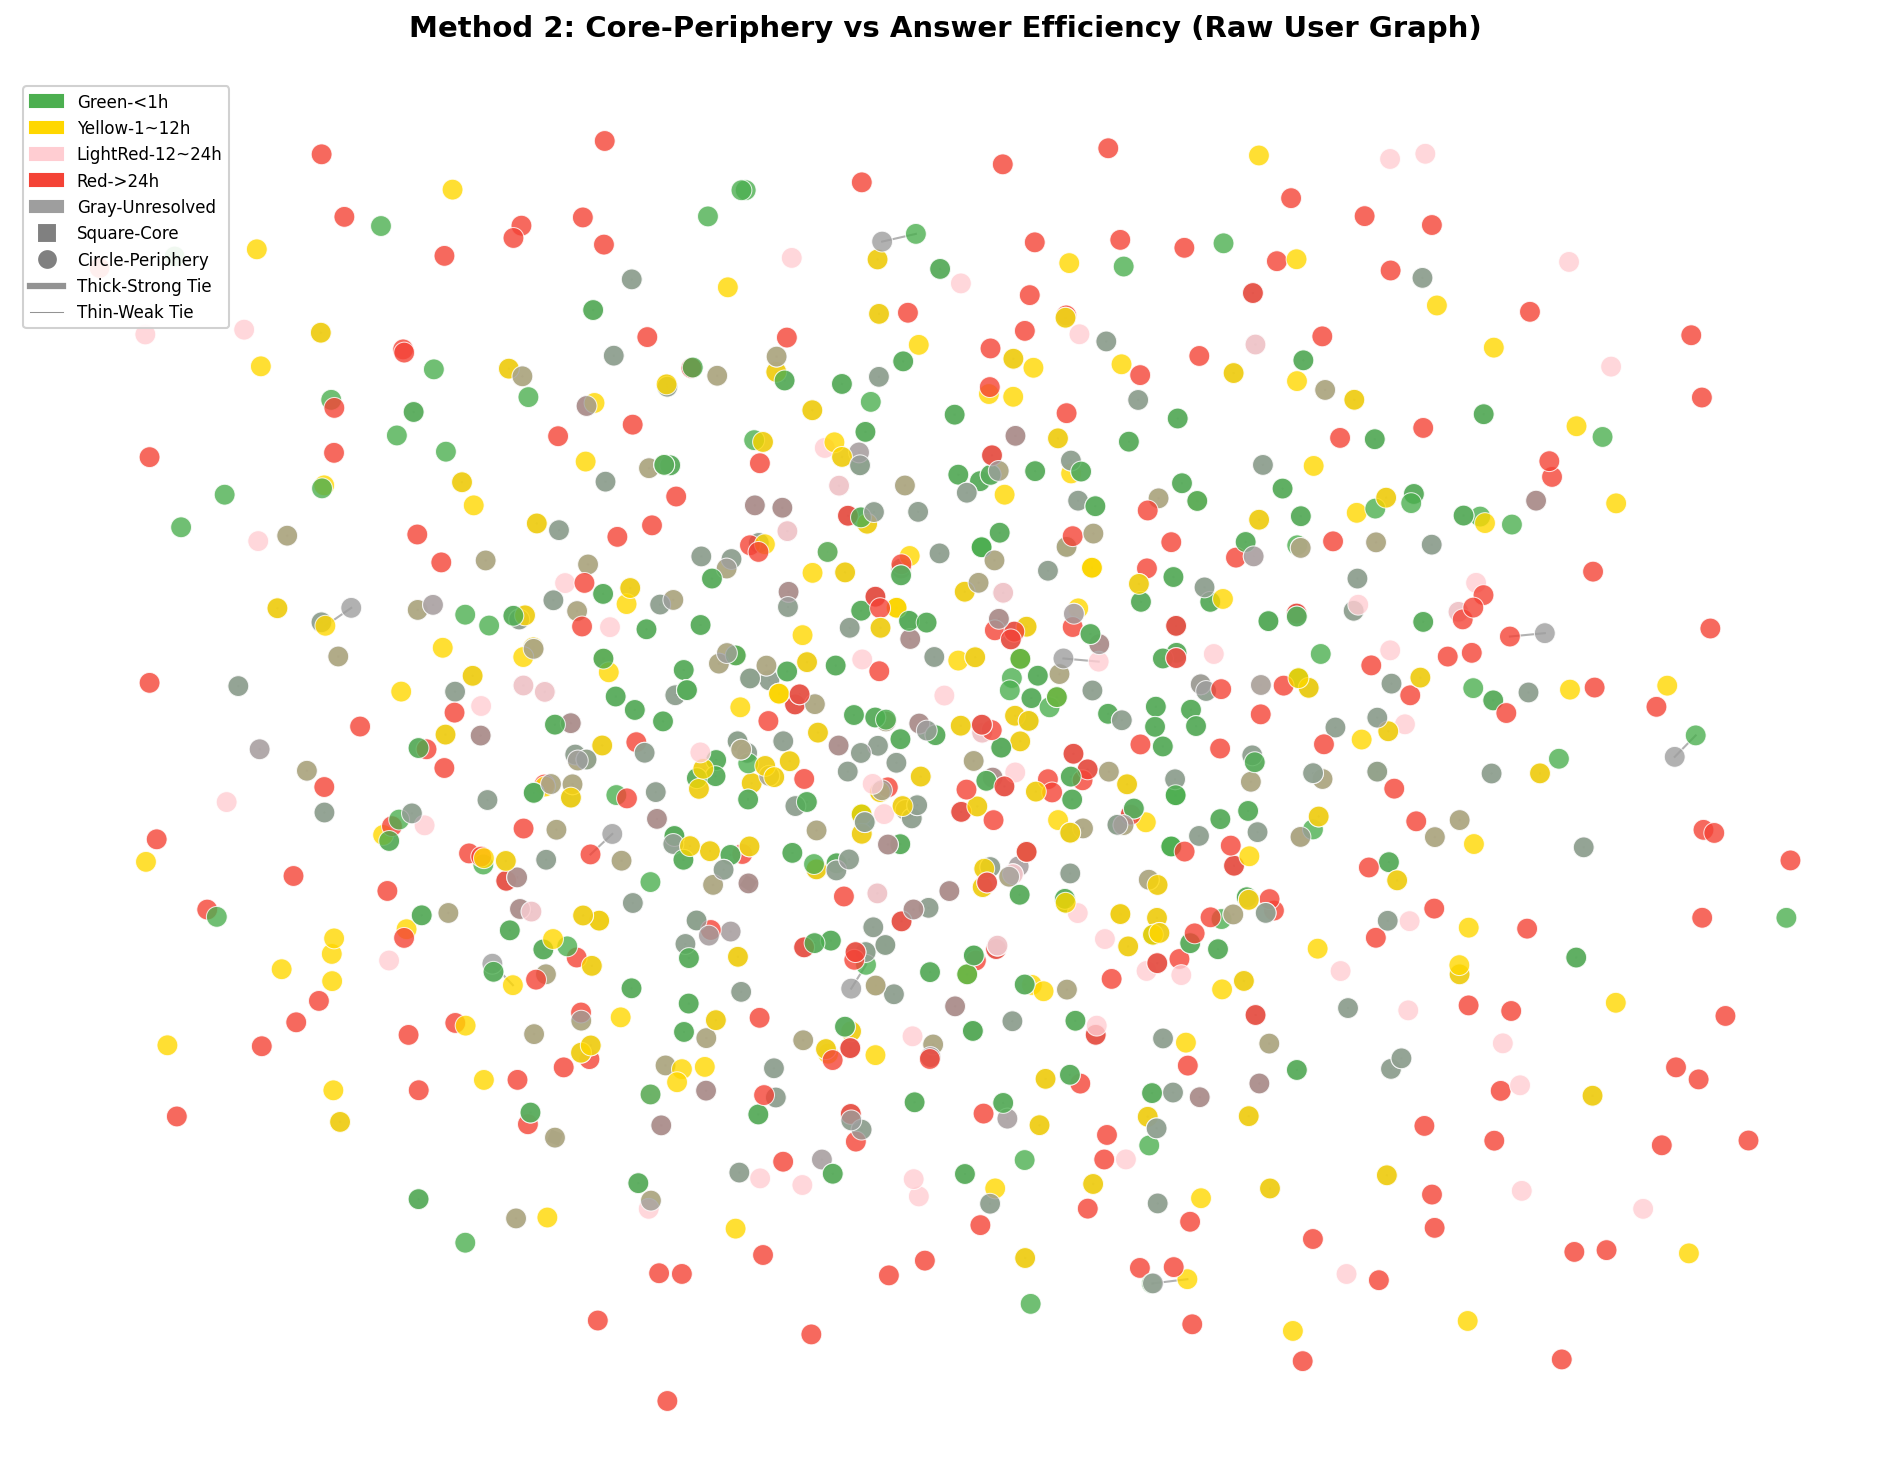
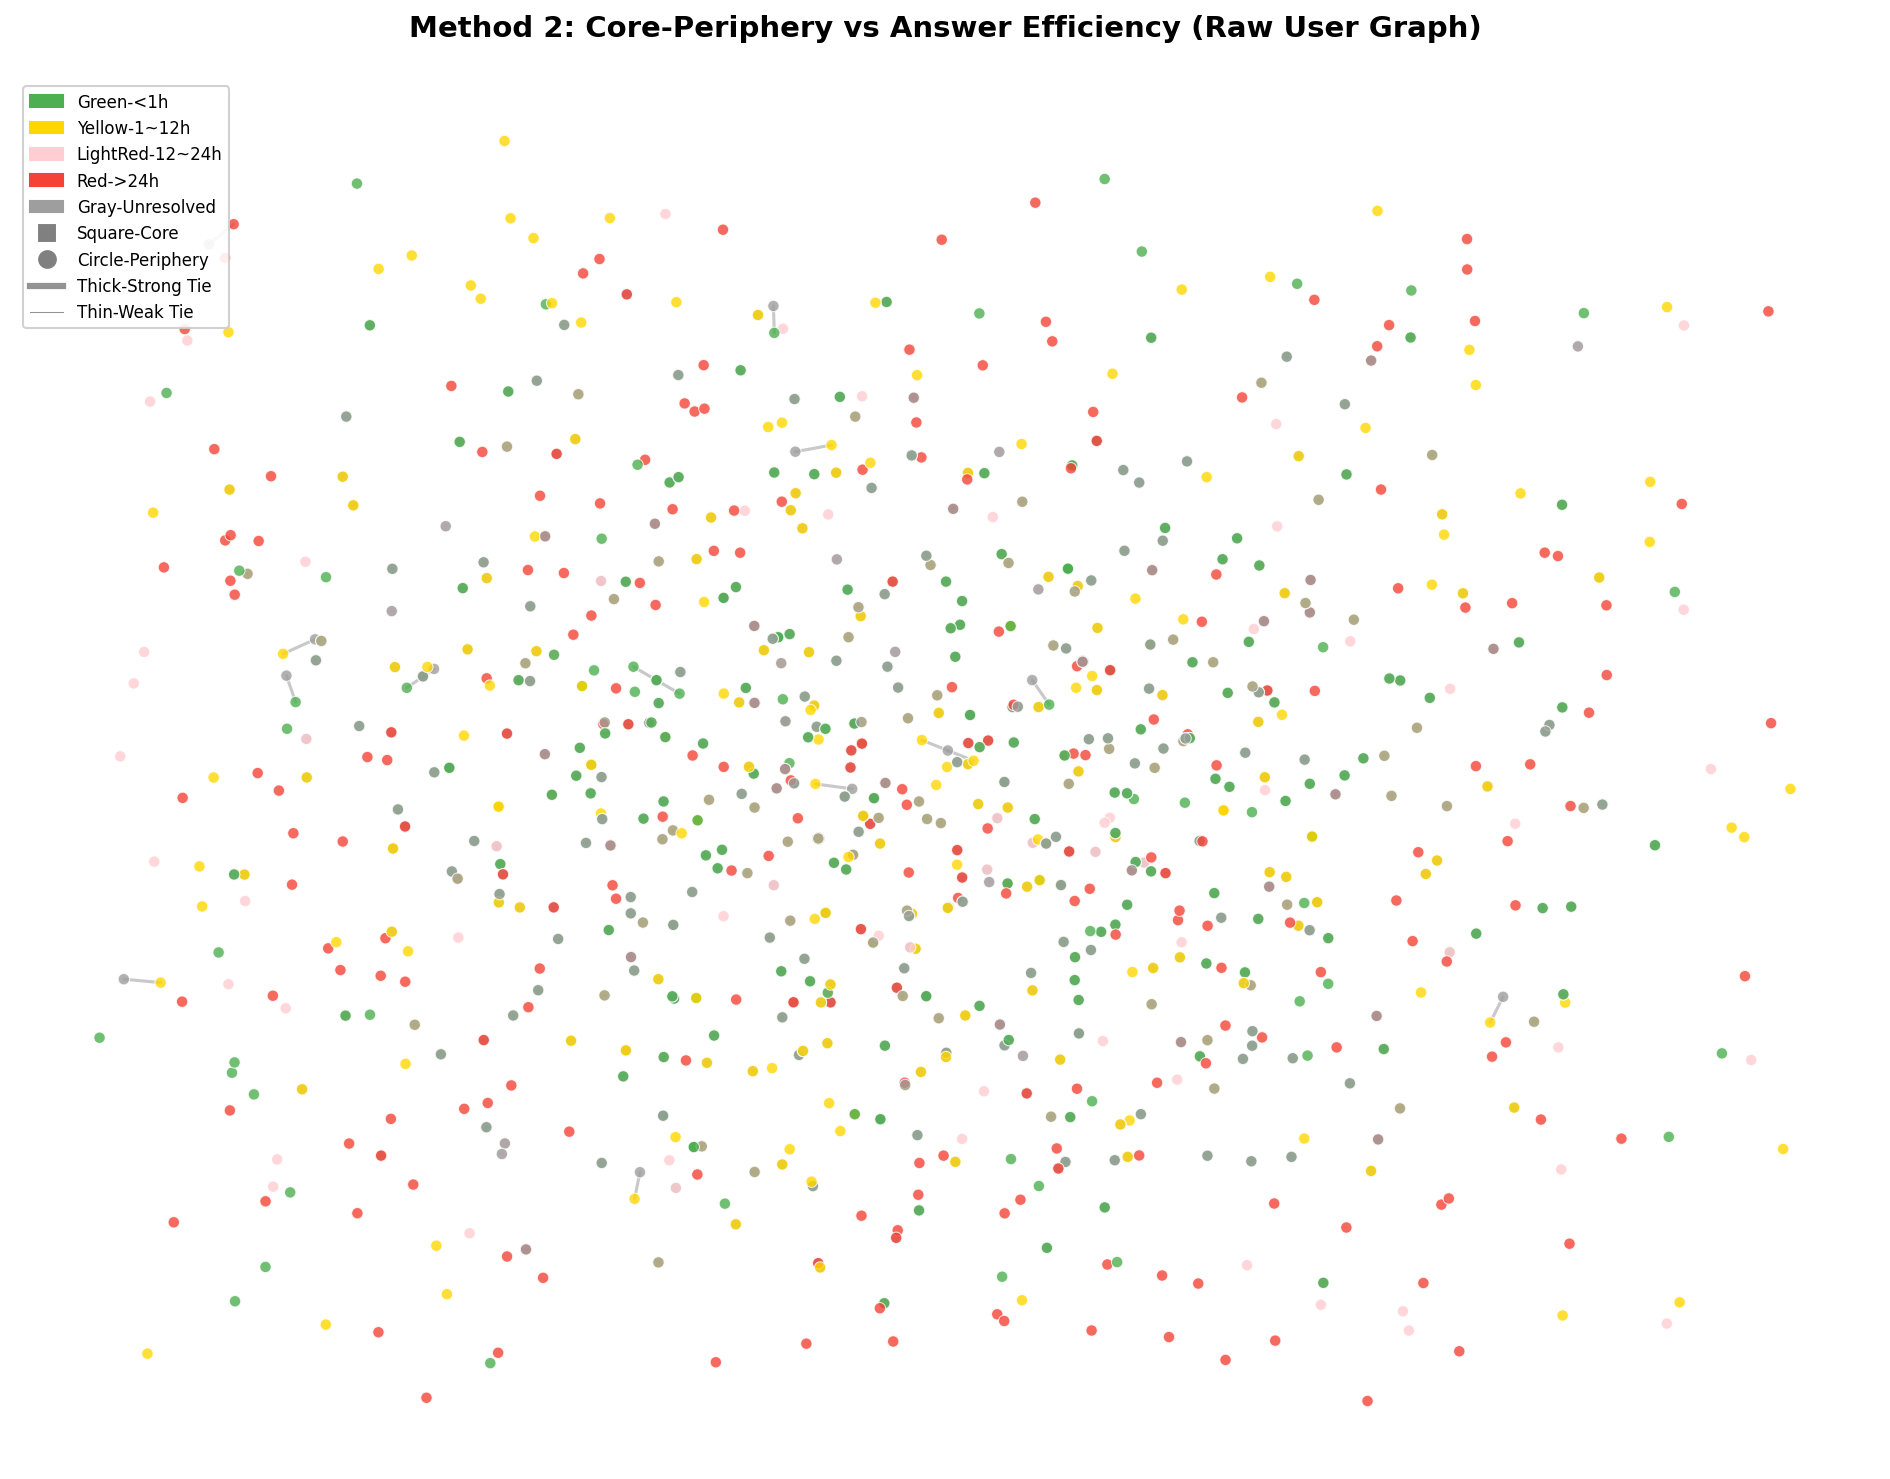
fix: update analysis limits and enhance edge weight normalization in SNA visualization

diff --git a/src/sna_runner.py b/src/sna_runner.py
@@ -2084,7 +2084,21 @@ class SNARunner:
         ax.axis("off")
 
         # Draw region-to-region connections using the graph edges
-        for edge in graph.es:
+        edge_weights = [edge["weight"] if "weight" in edge.attributes() else 1 for edge in graph.es]
+        if edge_weights:
+            min_w = min(edge_weights)
+            max_w = max(edge_weights)
+            if max_w > min_w:
+                normalized_weights = [
+                    (w - min_w) / (max_w - min_w)
+                    for w in edge_weights
+                ]
+            else:
+                normalized_weights = [0.5] * len(edge_weights)
+        else:
+            normalized_weights = [0.5] * len(graph.es)
+
+        for i, edge in enumerate(graph.es):
             source = graph.vs[edge.tuple[0]]
             target = graph.vs[edge.tuple[1]]
             source_region = source["region"] if "region" in attrs else "Other"
@@ -2095,13 +2109,13 @@ class SNARunner:
                 target_region = "Other"
             x1, y1 = region_positions[source_region]
             x2, y2 = region_positions[target_region]
-            weight = edge["weight"] if "weight" in edge.attributes() else 1
-            linewidth = max(1.0, min(6.0, weight / 1000.0))
+            linewidth = 1.5 + normalized_weights[i] * 4.5
+            alpha = 0.35 + normalized_weights[i] * 0.35
             ax.plot(
                 [x1, x2],
                 [y1, y2],
                 color="#444444",
-                alpha=0.35,
+                alpha=alpha,
                 linewidth=linewidth,
                 zorder=1,
             )
